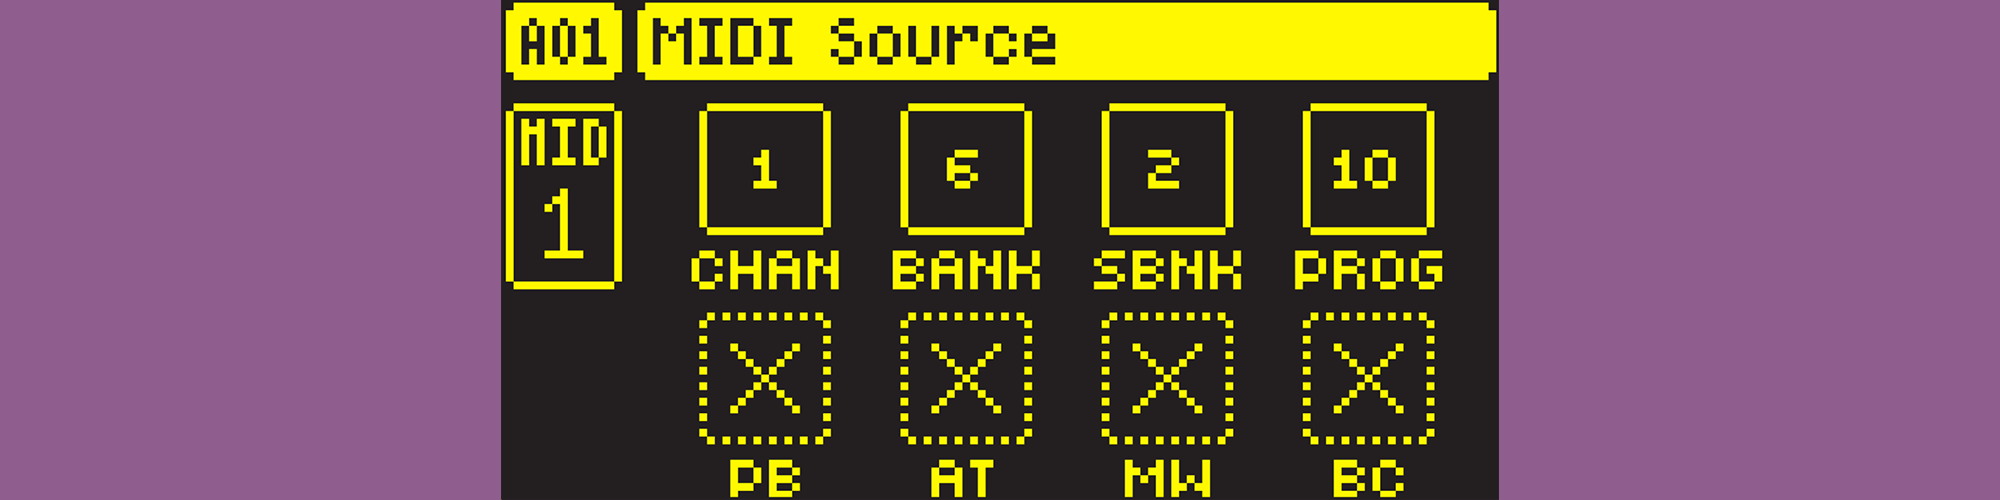
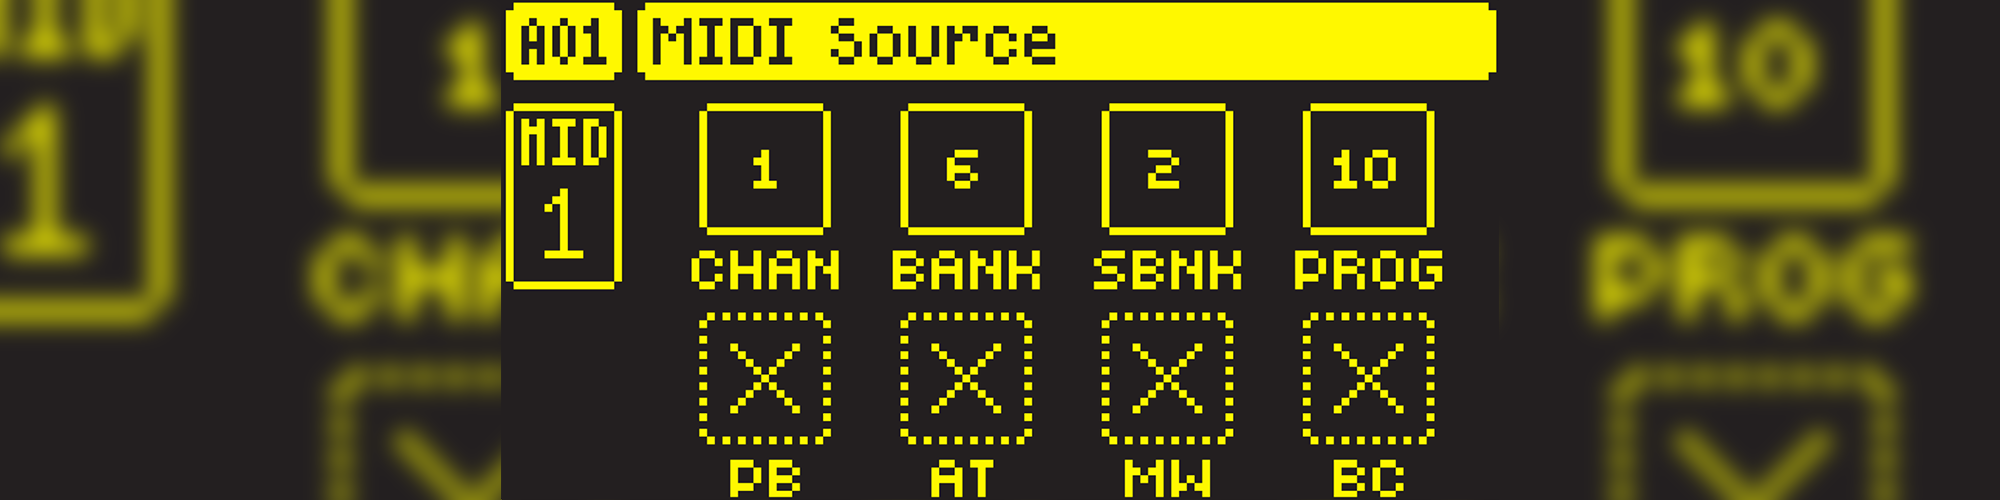
style course page hero

diff --git a/assets/css/style.css b/assets/css/style.css
@@ -217,7 +217,7 @@ li {
 .prophet-tutorial-image {
     margin: 30px 0 50px;
     height: 600px;
-    background-color: #767676;
+    background-color: rgba(21, 21, 21, 0.7);
     background-image: url(../images/prohet-hero.png);
     background-repeat: no-repeat;
     background-position: center;
@@ -613,7 +613,7 @@ li {
 }
 
 .course-title {
-    background-color: #8f5d8e;
+    background-color: rgba(21, 21, 21, 0.7);
     padding: 0 10px 10px 15px;
     position: absolute;
     border-top-right-radius: 5px;
@@ -622,8 +622,8 @@ li {
 }
 
 .course-title-alt {
-    background-color: #4f4f4f;
-    padding: 0 20px 25px;
+    background-color: rgba(21, 21, 21, 0.7);
+    padding: 0 20px 15px;
     position: absolute;
     border-top-right-radius: 5px;
     border-bottom-left-radius: 5px;
